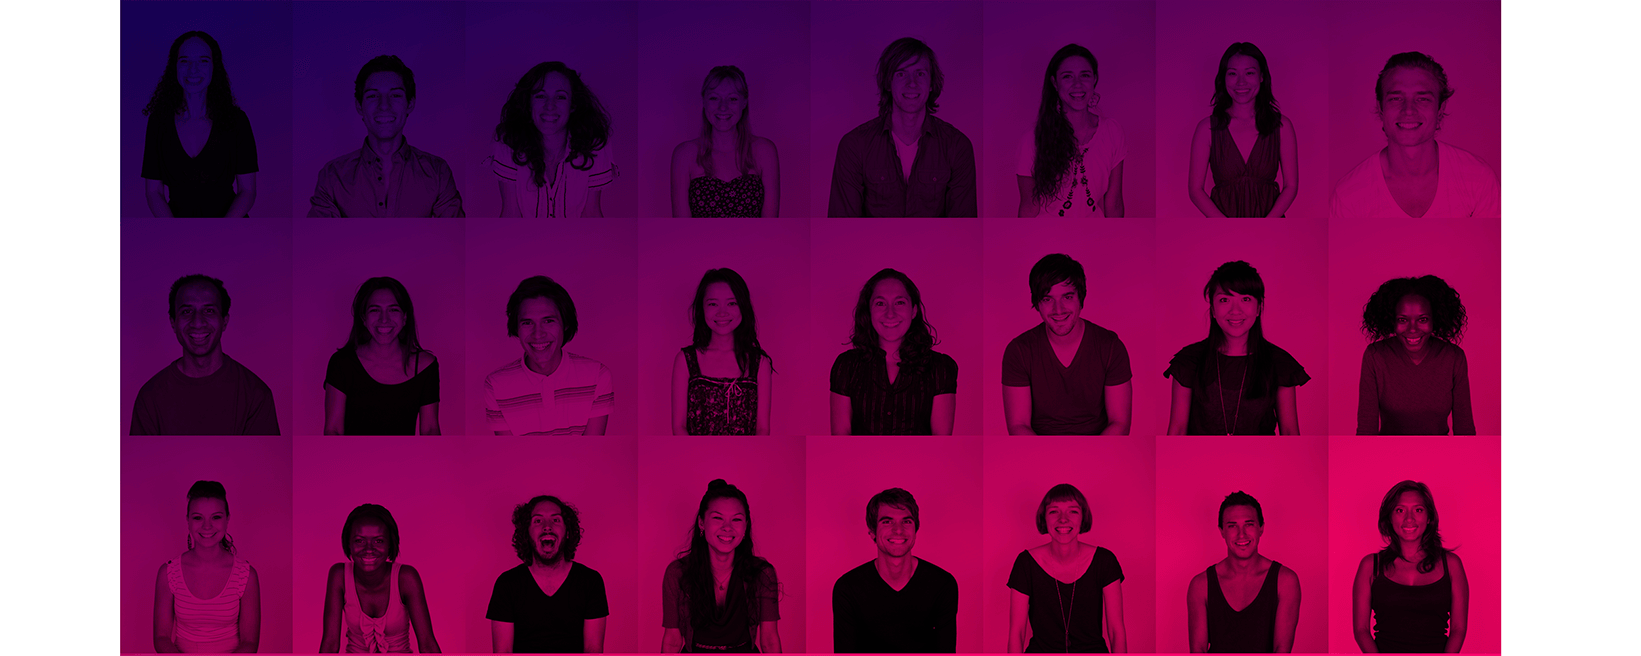
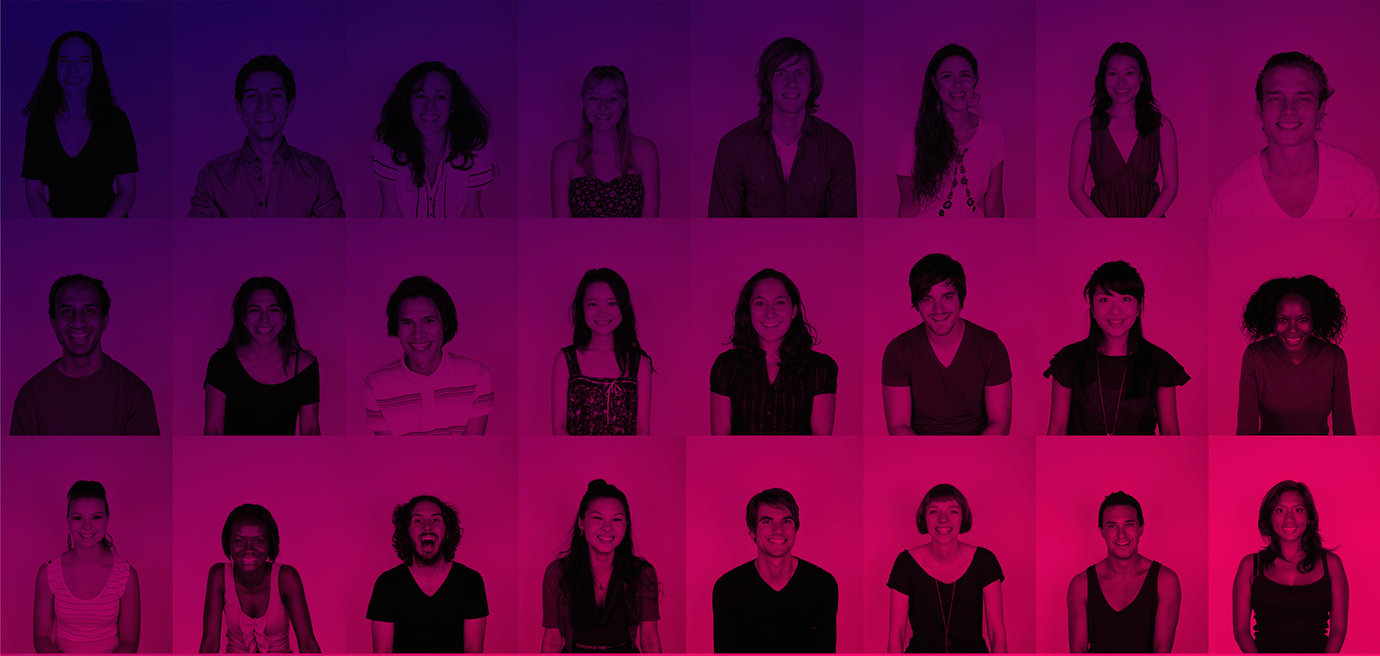
Crop whitespace from header background images

diff --git a/assets/stylesheets/scss/main.scss b/assets/stylesheets/scss/main.scss
@@ -18,8 +18,8 @@ $footer-blue-darker: #416589; /* may need for bold text? or social icons */
 MEDIA-BREAKPOINTS
 ==========================================*/
 
-$mobile: new-breakpoint(min-width 320px max-width 549px);
-$tablet: new-breakpoint(min-width 550px max-width 799px);
+/* $mobile: new-breakpoint(min-width 320px max-width 549px);
+ */$tablet: new-breakpoint(min-width 550px max-width 799px);
 $laptop: new-breakpoint(min-width 800px max-width 1199px);
 $desktop: new-breakpoint(min-width 1200px);
 
@@ -31,11 +31,25 @@ UNIVERSAL
   @include outer-container(1200px);
 }
 
-img {max-width:100;}
+img {max-width:100%;}
 
 /*==========================================
 HEADER
 ==========================================*/
+
+.hero-nav {
+  height: 30px;
+}
+
+header {
+  height: 502px;
+  background-image: url('../../images/header-background-min.png');
+}
+
+.header-logo {
+  margin-top: 150px;
+  height: 75px;
+}
 
 /*==========================================
 BODY

diff --git a/assets/stylesheets/css/main.css b/assets/stylesheets/css/main.css
@@ -59,6 +59,8 @@ COLORS
 /*==========================================
 MEDIA-BREAKPOINTS
 ==========================================*/
+/* $mobile: new-breakpoint(min-width 320px max-width 549px);
+ */
 /*==========================================
 UNIVERSAL
 ==========================================*/
@@ -72,11 +74,22 @@ UNIVERSAL
     display: table; }
 
 img {
-  max-width: 100; }
+  max-width: 100%; }
 
 /*==========================================
 HEADER
 ==========================================*/
+.hero-nav {
+  height: 30px; }
+
+header {
+  height: 502px;
+  background-image: url("../../images/header-background-min.png"); }
+
+.header-logo {
+  margin-top: 150px;
+  height: 75px; }
+
 /*==========================================
 BODY
 ==========================================*/
